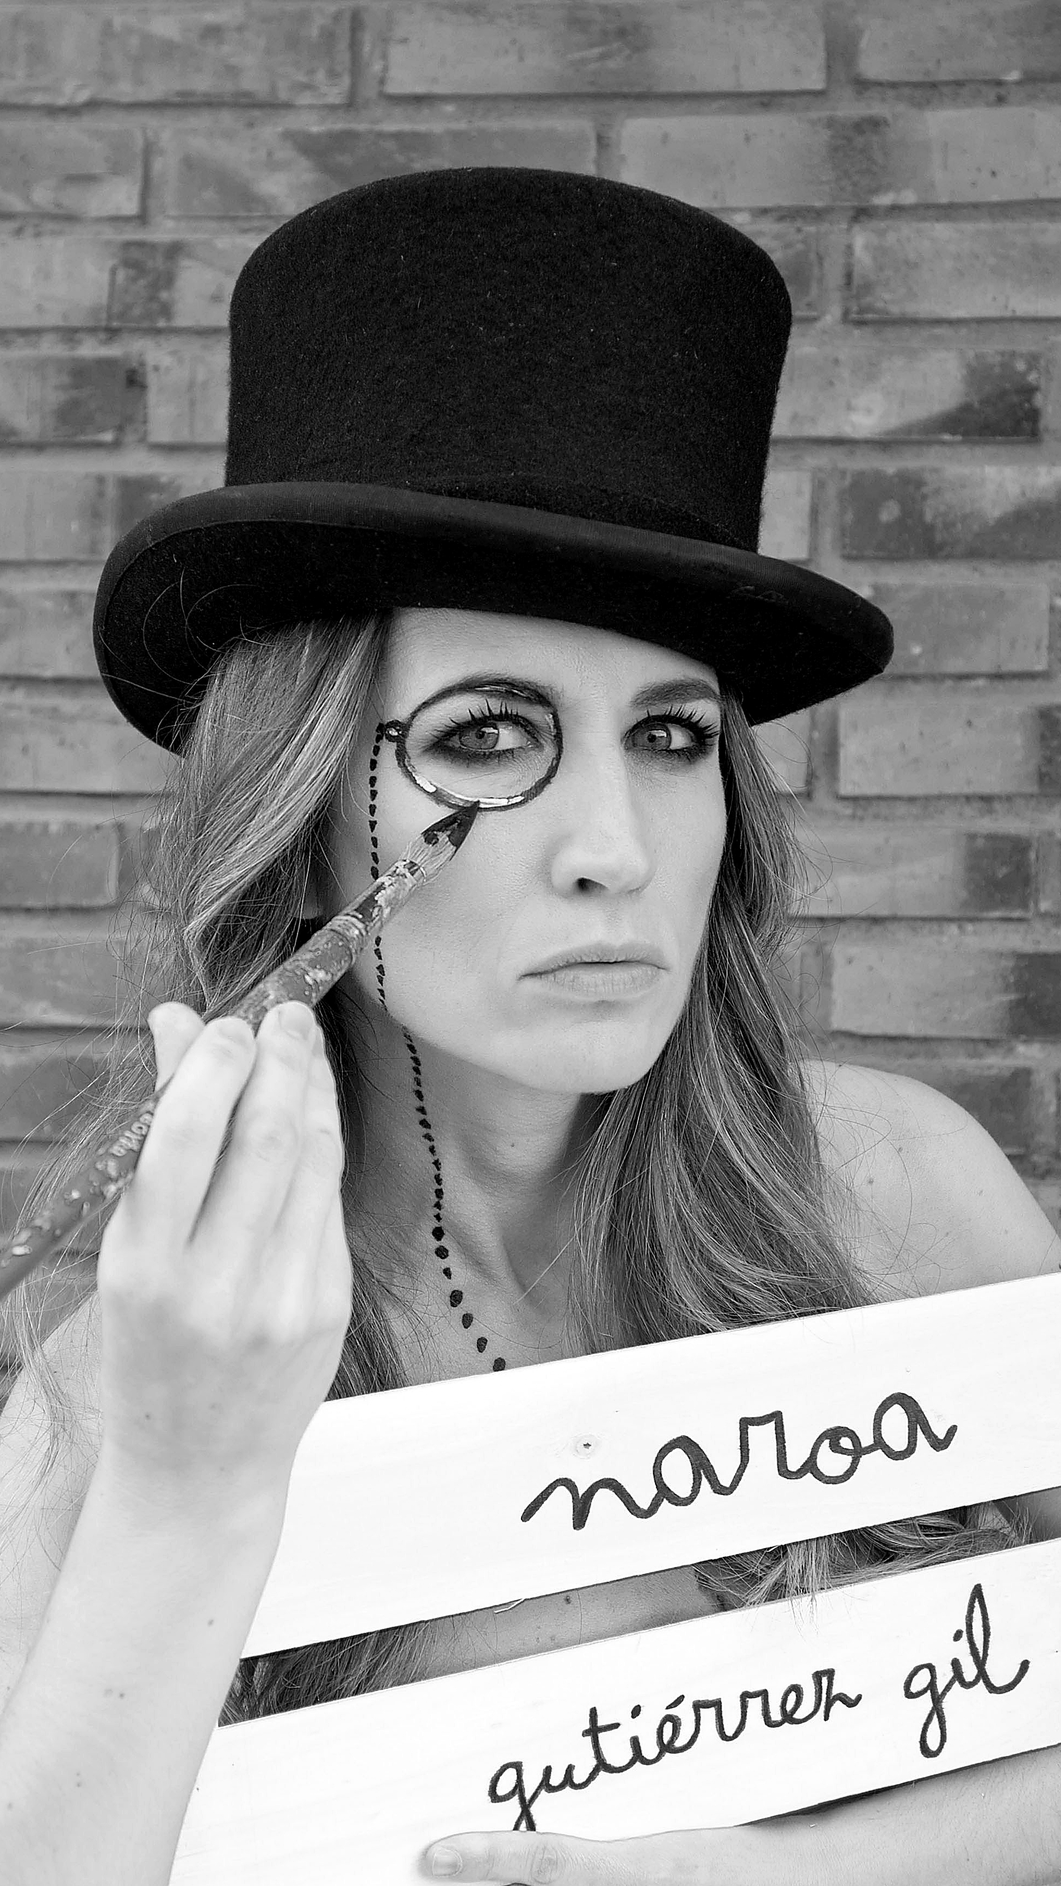
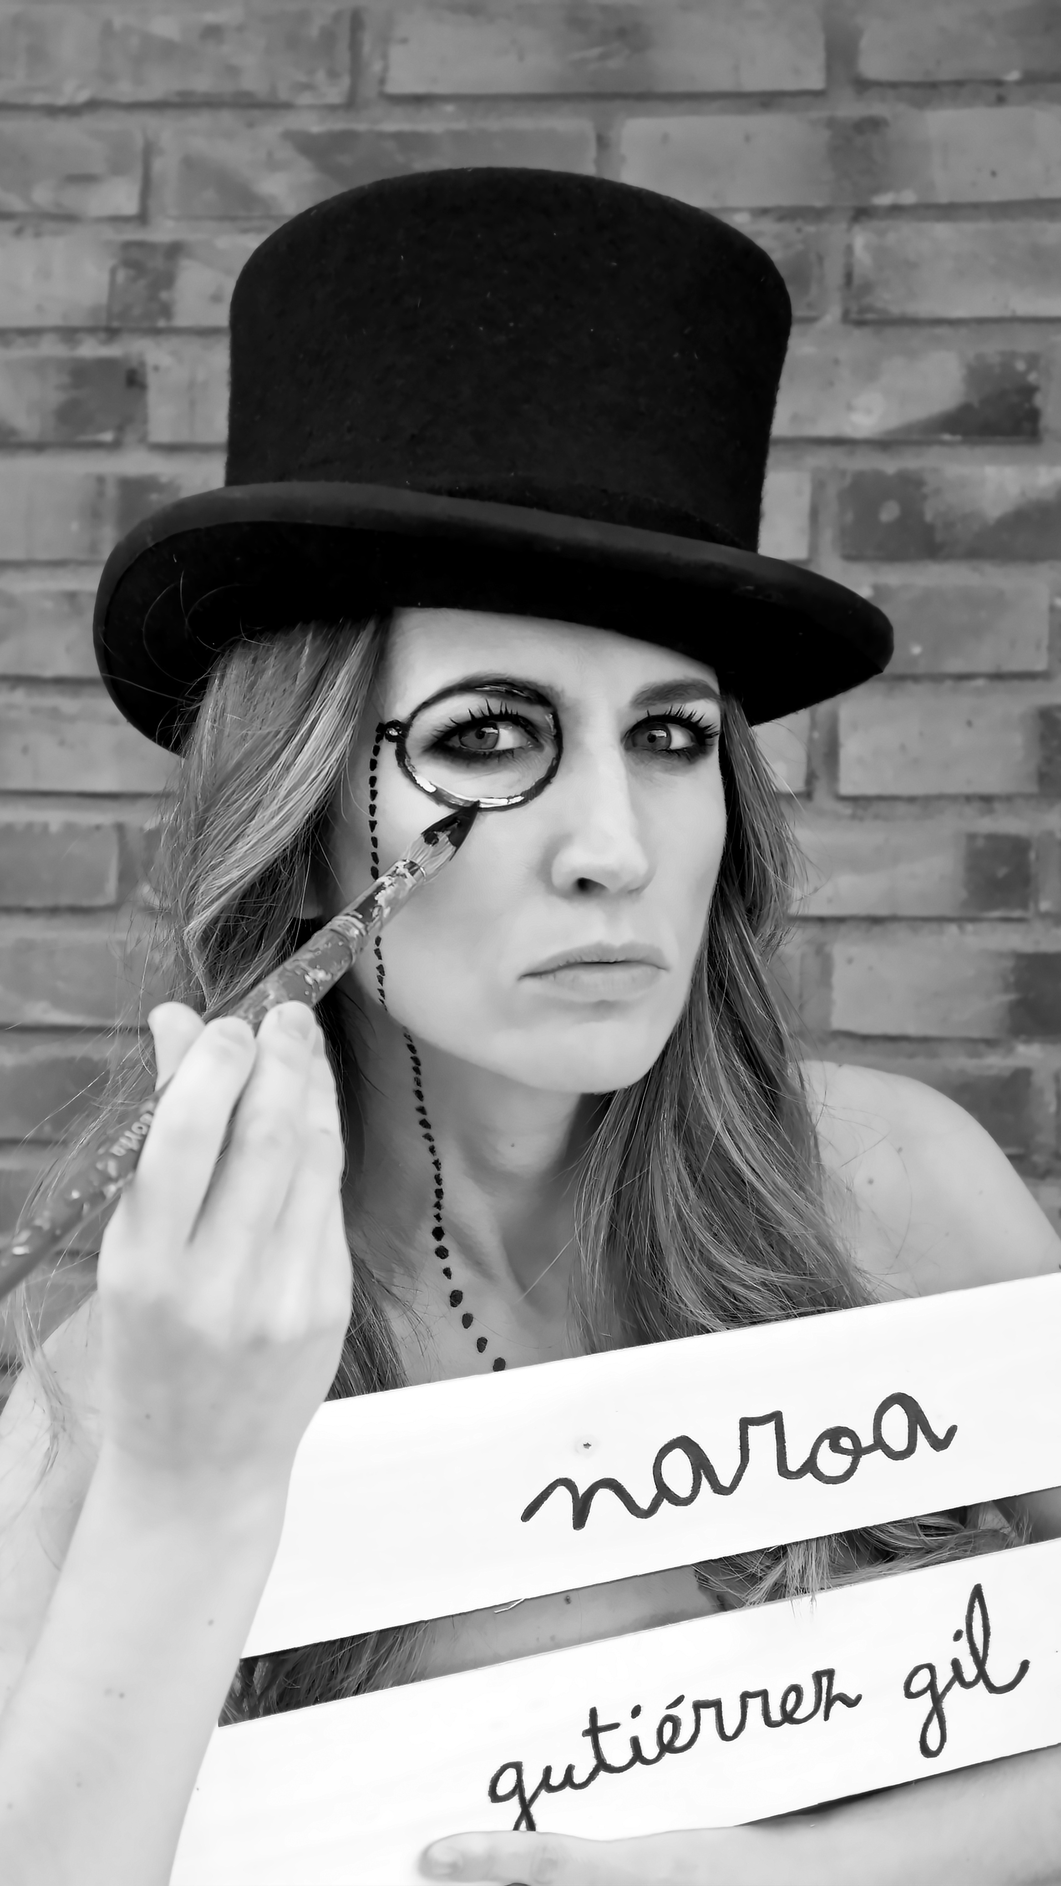
fix(lint): eliminate soundscape warning and optimize story card remastering pipeline

diff --git a/classic/immersive/app.css b/classic/immersive/app.css
@@ -442,21 +442,33 @@ input[type="text"], input[type="email"], input[type="search"], textarea {
 html:has(body.page-retratos-por-encargo-bilbao),body.page-retratos-por-encargo-bilbao{background:#d52125;background:radial-gradient(circle at 18% 12%,#eb383c 0%,#d52125 48%,#ab1216 100%);color:#fffdf4}
 body.page-retratos-por-encargo-bilbao .site-nav{color:#fffdf4;text-shadow:none}
 body.page-retratos-por-encargo-bilbao .site-nav.is-scrolled{background:rgba(213,33,37,0.92);color:#fffdf4;border-bottom:1px solid rgba(255,255,255,0.18);text-shadow:none}
-body.page-retratos-por-encargo-bilbao .commission-minimal{max-width:none;width:100%;height:420svh;padding:0;margin:0;position:relative}
-body.page-retratos-por-encargo-bilbao .commission-horizontal-sticky{position:sticky;top:0;height:100svh;width:100%;overflow:hidden;display:flex;flex-direction:column;justify-content:space-between;padding:74px 0 18px}
-body.page-retratos-por-encargo-bilbao .commission-minimal-head{display:flex;align-items:baseline;justify-content:space-between;gap:16px;padding:0 4vw;margin:0;flex-shrink:0;z-index:4}
-body.page-retratos-por-encargo-bilbao .commission-minimal-head h1{font-family:'Cormorant Garamond',serif;font-weight:300;font-style:italic;font-size:clamp(32px,3.8vw,50px);line-height:.95;margin:0;color:#fffdf4}
-body.page-retratos-por-encargo-bilbao .commission-examples{display:flex;flex-direction:row;align-items:center;gap:11vw;width:max-content;flex:1;padding:0 10vw;will-change:transform;transform:translate3d(var(--hx,0px),0,0)}
-body.page-retratos-por-encargo-bilbao .commission-example{flex:0 0 auto;background:transparent;border:0;box-shadow:none;overflow:visible;display:flex;flex-direction:column;align-items:center;perspective:1200px;opacity:1!important;transform:none!important}
-body.page-retratos-por-encargo-bilbao .commission-example-photo{display:block;width:fit-content;max-width:82vw;height:auto;aspect-ratio:auto;border-radius:36px 18px 34px 22px / 20px 34px 18px 36px;overflow:hidden;background:#140506;box-shadow:0 34px 80px rgba(28,2,4,0.52);transform:translate3d(0,0,0) rotateY(calc(var(--parallax-x,0) * -4.5deg));will-change:transform}
-body.page-retratos-por-encargo-bilbao .commission-example-photo img{display:block;width:auto;max-width:82vw;height:auto;max-height:74svh;object-fit:contain;transform:translate3d(calc(var(--parallax-x,0) * 40px),0,0) scale(1.06);will-change:transform}
-body.page-retratos-por-encargo-bilbao .commission-example-bar{display:flex;align-items:center;justify-content:space-between;gap:20px;width:100%;padding:14px 6px 0;transform:translate3d(calc(var(--parallax-x,0) * -34px),0,0);will-change:transform}
-body.page-retratos-por-encargo-bilbao .commission-work-title{font-family:'Caveat',cursive;font-size:clamp(32px,3.8vw,48px);line-height:1;color:#fffdf4}
-body.page-retratos-por-encargo-bilbao .commission-pick-btn{background:#fffdf4;color:#180607;padding:11px 24px;border-radius:999px;font-size:12px;font-weight:600;letter-spacing:.05em;text-transform:uppercase;transition:transform .22s ease,background .22s ease}
+body.page-retratos-por-encargo-bilbao .commission-minimal{max-width:none;width:100%;height:450svh;padding:0;margin:0;position:relative}
+body.page-retratos-por-encargo-bilbao .commission-horizontal-sticky{position:sticky;top:0;height:100svh;width:100%;overflow:hidden;display:flex;flex-direction:column;justify-content:space-between;padding:18px 0 20px}
+body.page-retratos-por-encargo-bilbao .commission-minimal-head{position:absolute;top:22px;left:4vw;right:4vw;display:flex;align-items:center;justify-content:space-between;gap:16px;margin:0;z-index:10;pointer-events:none}
+body.page-retratos-por-encargo-bilbao .commission-minimal-head h1{font-family:'Cormorant Garamond',serif;font-weight:300;font-style:italic;font-size:clamp(26px,3.2vw,42px);line-height:1;margin:0;color:#fffdf4;pointer-events:auto;background:rgba(213,33,37,0.45);backdrop-filter:blur(8px);-webkit-backdrop-filter:blur(8px);padding:4px 16px;border-radius:999px;border:1px solid rgba(255,255,255,0.18)}
+body.page-retratos-por-encargo-bilbao .commission-head-cta{pointer-events:auto;background:#fffdf4;color:#180607;padding:9px 20px;border-radius:999px;font-size:11px;font-weight:600;letter-spacing:.05em;text-transform:uppercase;transition:transform .22s ease,background .22s ease}
+body.page-retratos-por-encargo-bilbao .commission-head-cta:hover{background:#f7d594;transform:translateY(-2px)}
+body.page-retratos-por-encargo-bilbao .commission-examples{display:flex;flex-direction:row;align-items:center;gap:14vw;width:max-content;height:100%;padding:0 12vw;will-change:transform;transform:translate3d(var(--hx,0px),0,0)}
+body.page-retratos-por-encargo-bilbao .commission-example{position:relative;flex:0 0 auto;background:transparent;border:0;box-shadow:none;overflow:visible;display:flex;align-items:center;justify-content:center;perspective:1400px;opacity:1!important;transform:none!important}
+body.page-retratos-por-encargo-bilbao .commission-parallax-num{position:absolute;top:5%;left:-3vw;font-family:'Cormorant Garamond',serif;font-weight:300;font-style:italic;font-size:clamp(120px,20vw,240px);line-height:.8;color:rgba(255,255,255,0.07);pointer-events:none;z-index:1;user-select:none;will-change:transform;transform:translate3d(calc(var(--parallax-x,0) * 110px),0,0)}
+body.page-retratos-por-encargo-bilbao .commission-stage-wrap{position:relative;display:flex;flex-direction:column;align-items:center;z-index:2;transform:rotateY(calc(var(--parallax-x,0) * -3.8deg)) skewX(var(--velocity-skew,0deg));will-change:transform}
+body.page-retratos-por-encargo-bilbao .commission-example-photo{display:block;width:fit-content;max-width:84vw;height:auto;aspect-ratio:auto;border-radius:32px 18px 30px 20px / 18px 30px 18px 32px;overflow:hidden;background:#140506;box-shadow:calc(var(--parallax-x,0) * -24px) 36px 90px rgba(24,1,3,0.56);will-change:transform}
+body.page-retratos-por-encargo-bilbao .commission-example-photo img{display:block;width:auto;max-width:84vw;height:auto;max-height:82svh;object-fit:contain;transform:translate3d(calc(var(--parallax-x,0) * 44px),0,0) scale(1.07);will-change:transform;transition:transform .4s ease-out}
+body.page-retratos-por-encargo-bilbao .commission-detail-pip{position:absolute;bottom:70px;right:-38px;width:clamp(110px,12vw,170px);aspect-ratio:1;border-radius:22px;overflow:hidden;border:2px solid rgba(255,255,255,0.45);box-shadow:0 18px 44px rgba(20,1,3,0.6);z-index:4;pointer-events:none;will-change:transform;transform:translate3d(calc(var(--parallax-x,0) * -52px),calc(var(--parallax-x,0) * 16px),40px) rotate(calc(var(--parallax-x,0) * 6deg))}
+body.page-retratos-por-encargo-bilbao .commission-detail-pip img{width:100%;height:100%;object-fit:cover;transform:scale(1.22)}
+body.page-retratos-por-encargo-bilbao .commission-example-bar{display:flex;align-items:center;justify-content:space-between;gap:18px;width:100%;padding:14px 10px 0;will-change:transform;transform:translate3d(calc(var(--parallax-x,0) * -26px),0,0)}
+body.page-retratos-por-encargo-bilbao .commission-work-title{font-family:'Caveat',cursive;font-size:clamp(30px,3.6vw,46px);line-height:1;color:#fffdf4;text-shadow:0 2px 14px rgba(20,2,3,0.4)}
+body.page-retratos-por-encargo-bilbao .commission-pick-btn{background:#fffdf4;color:#180607;padding:11px 24px;border-radius:999px;font-size:12px;font-weight:600;letter-spacing:.05em;text-transform:uppercase;box-shadow:0 6px 20px rgba(0,0,0,0.22);transition:transform .22s ease,background .22s ease}
 body.page-retratos-por-encargo-bilbao .commission-pick-btn:hover{background:#f7d594;transform:translateY(-2px)}
-body.page-retratos-por-encargo-bilbao .closing{flex:0 0 auto;display:flex;flex-direction:column;background:transparent;border:0;box-shadow:none;padding:0 12vw 0 4vw;margin:0;justify-content:center;align-items:center;gap:18px;opacity:1!important;transform:translate3d(calc(var(--parallax-x,0) * -24px),0,0)!important}
-body.page-retratos-por-encargo-bilbao .closing .commission-cta-btn{background:#fffdf4;color:#180607;border-radius:999px;padding:16px 34px;font-weight:600}
-body.page-retratos-por-encargo-bilbao .closing .text-link{color:#fffdf4;border-bottom-color:rgba(255,253,244,0.5)}
+body.page-retratos-por-encargo-bilbao .closing{flex:0 0 auto;display:flex;flex-direction:column;background:transparent;border:0;box-shadow:none;padding:0 16vw 0 6vw;margin:0;justify-content:center;align-items:center;gap:22px;opacity:1!important;transform:translate3d(calc(var(--parallax-x,0) * -20px),0,0)!important}
+body.page-retratos-por-encargo-bilbao .closing .commission-cta-btn{background:#fffdf4;color:#180607;border-radius:999px;padding:18px 38px;font-weight:600;font-size:15px;box-shadow:0 12px 32px rgba(20,1,3,0.42)}
+body.page-retratos-por-encargo-bilbao .closing .text-link{color:#fffdf4;font-size:15px;border-bottom-color:rgba(255,253,244,0.5)}
+body.page-retratos-por-encargo-bilbao .commission-horizontal-progress{position:absolute;bottom:14px;left:50%;transform:translateX(-50%);display:flex;flex-direction:column;align-items:center;gap:8px;z-index:10}
+body.page-retratos-por-encargo-bilbao .commission-progress-bar{width:min(280px,50vw);height:2px;background:rgba(255,255,255,0.2);border-radius:2px;overflow:hidden}
+body.page-retratos-por-encargo-bilbao .commission-progress-fill{width:100%;height:100%;background:#fffdf4;transform-origin:left center;transform:scaleX(var(--h-progress,0));transition:transform .08s linear}
+body.page-retratos-por-encargo-bilbao .commission-dots-dock{display:flex;align-items:center;gap:12px}
+body.page-retratos-por-encargo-bilbao .commission-dot{background:transparent;border:0;padding:4px;cursor:pointer;color:rgba(255,255,255,0.45);font-size:11px;font-family:'Cormorant Garamond',serif;font-style:italic;transition:color .2s ease,transform .2s ease}
+body.page-retratos-por-encargo-bilbao .commission-dot.is-active{color:#fffdf4;font-weight:700;transform:scale(1.15)}
 body.page-retratos-por-encargo-bilbao .site-footer{color:#fffdf4;border-top:1px solid rgba(255,255,255,0.22)}
 body.page-retratos-por-encargo-bilbao .site-footer .signature{color:#fffdf4}
 body.page-retratos-por-encargo-bilbao .site-footer .share-dock-label{color:#fde8e8}
@@ -464,11 +476,15 @@ body.page-retratos-por-encargo-bilbao .site-footer .share-btn{background:rgba(25
 html.motion-off body.page-retratos-por-encargo-bilbao .commission-minimal{height:auto;padding:88px 4% 40px}
 html.motion-off body.page-retratos-por-encargo-bilbao .commission-horizontal-sticky{position:static;height:auto;overflow:visible}
 html.motion-off body.page-retratos-por-encargo-bilbao .commission-examples{flex-direction:column;width:100%;padding:24px 0;gap:56px;transform:none!important}
+html.motion-off body.page-retratos-por-encargo-bilbao .commission-detail-pip{display:none}
 @media(max-width:760px){
-  body.page-retratos-por-encargo-bilbao .commission-horizontal-sticky{padding:66px 0 14px}
-  body.page-retratos-por-encargo-bilbao .commission-examples{gap:14vw;padding:0 7vw}
-  body.page-retratos-por-encargo-bilbao .commission-example-photo{max-width:86vw;border-radius:26px 14px 24px 16px}
-  body.page-retratos-por-encargo-bilbao .commission-example-photo img{max-width:86vw;max-height:68svh}
+  body.page-retratos-por-encargo-bilbao .commission-horizontal-sticky{padding:14px 0 16px}
+  body.page-retratos-por-encargo-bilbao .commission-minimal-head{top:14px}
+  body.page-retratos-por-encargo-bilbao .commission-examples{gap:12vw;padding:0 6vw}
+  body.page-retratos-por-encargo-bilbao .commission-example-photo{max-width:88vw;border-radius:24px 14px 22px 14px}
+  body.page-retratos-por-encargo-bilbao .commission-example-photo img{max-width:88vw;max-height:76svh}
+  body.page-retratos-por-encargo-bilbao .commission-detail-pip{width:76px;bottom:54px;right:-14px;border-radius:14px}
+  body.page-retratos-por-encargo-bilbao .commission-parallax-num{font-size:100px;left:-1vw}
 }
 
 /* Micro-gota de pintura dorada reactiva en click (Tactilidad de Bellas Artes) */

diff --git a/classic/immersive/soundscape.js b/classic/immersive/soundscape.js
@@ -736,7 +736,61 @@
     } catch {}
     return { category: cat, frequency: freq, gated: false };
   }
-  let lastCanPeelTime = 0, lastEguzkiloreTime = 0;
+  let lastCanPeelTime = 0, lastEguzkiloreTime = 0, lastKutxaTime = 0;
+  function playKutxaBoxJump() {
+    const nowMs = typeof performance !== 'undefined' ? performance.now() : Date.now();
+    if (nowMs - lastKutxaTime < 420) return;
+    lastKutxaTime = nowMs;
+    if (typeof navigator !== 'undefined' && navigator.vibrate) {
+      try { navigator.vibrate([12, 24, 18]); } catch {}
+    }
+    if (!enabled || !context || !engine || context.state !== 'running') return;
+    try {
+      const now = context.currentTime + 0.004;
+      const target = engine.compressor || engine.master;
+      const gallery = getGalleryReverb();
+      if (typeof context.createOscillator === 'function') {
+        // 1. Golpe cálido de tapa de caja de nogal (164.81 Hz E3 -> 98.00 Hz G2)
+        const woodOsc = context.createOscillator();
+        const hingeOsc = context.createOscillator();
+        const filter = typeof context.createBiquadFilter === 'function' ? context.createBiquadFilter() : null;
+        const gain = context.createGain();
+        woodOsc.type = 'sine';
+        hingeOsc.type = 'triangle';
+        woodOsc.frequency.setValueAtTime(164.81, now);
+        hingeOsc.frequency.setValueAtTime(293.66, now + 0.045);
+        if (woodOsc.frequency.exponentialRampToValueAtTime) {
+          woodOsc.frequency.exponentialRampToValueAtTime(98.00, now + 0.19);
+        }
+        if (hingeOsc.frequency.exponentialRampToValueAtTime) {
+          hingeOsc.frequency.exponentialRampToValueAtTime(196.00, now + 0.24);
+        }
+        if (filter) {
+          filter.type = 'lowpass';
+          filter.frequency.setValueAtTime(520, now);
+          filter.Q.setValueAtTime(0.42, now);
+        }
+        gain.gain.setValueAtTime(0.0001, now);
+        if (gain.gain.linearRampToValueAtTime) {
+          gain.gain.linearRampToValueAtTime(0.14, now + 0.032);
+        }
+        if (gain.gain.exponentialRampToValueAtTime) {
+          gain.gain.exponentialRampToValueAtTime(0.0001, now + 0.42);
+        }
+        woodOsc.connect(filter || gain);
+        hingeOsc.connect(filter || gain);
+        if (filter) filter.connect(gain);
+        gain.connect(target);
+        if (gallery?.input) {
+          try { gain.connect(gallery.input); } catch {}
+        }
+        woodOsc.start(now);
+        hingeOsc.start(now + 0.045);
+        woodOsc.stop(now + 0.44);
+        hingeOsc.stop(now + 0.44);
+      }
+    } catch {}
+  }
   function playCanPeel() {
     const nowMs = typeof performance !== 'undefined' ? performance.now() : Date.now();
     if (nowMs - lastCanPeelTime < 450) return;
@@ -1380,6 +1434,9 @@
     puff(intensity) {
       playCigarettePuff(intensity);
     },
+    kutxaBox() {
+      playKutxaBoxJump();
+    },
     eguzkilore() {
       playEguzkiloreChime();
     },
@@ -1528,6 +1585,7 @@
     get lastGameOverSlug() { return lastGameOverSlug; },
     get lastKissSlug() { return lastKissSlug; },
     get lastPuffSlug() { return lastPuffSlug; },
+    get lastKutxaSlug() { return lastKutxaSlug; },
     get lastMenuNoteIndex() { return lastMenuNoteIndex; },
     get lastPhonographCategory() { return lastPhonographCategory; },
     get lastPhonographFreq() { return lastPhonographFreq; },

diff --git a/tools/build_immersive_site.py b/tools/build_immersive_site.py
@@ -287,35 +287,7 @@ def build(output):
             if center_path.exists():
                 c_im = Image.open(center_path).convert("RGB")
                 c_crop = ImageOps.fit(c_im, (SW, SH), method=Image.Resampling.LANCZOS, centering=(0.5, 0.42))
-
-                # Remasterización óptica selectiva (Ilford Delta 100: negros de fieltro profundos, piel sedosa, foco cristalino en iris/monóculo/pincel)
-                import numpy as np
-                arr = np.asarray(c_crop, dtype=np.float32) / 255.0
-                lo, hi = np.percentile(arr, [1.4, 99.5])
-                arr = np.clip((arr - lo) / max(hi - lo, 1e-5), 0.0, 1.0)
-                # Curva tonal suave de cuarto oscuro: densidad en sombras sin endurecer piel ni pelo
-                arr = np.where(arr < 0.45, 0.45 * np.power(arr / 0.45, 1.09), 1.0 - 0.55 * np.power((1.0 - arr) / 0.55, 1.04))
-                base_im = Image.fromarray(np.clip(arr * 255.0, 0, 255).astype(np.uint8), "RGB")
-
-                # Suavizado bilateral ligero en frecuencias de ruido JPEG + nitidez focal exclusiva en mirada, monóculo, pincel y firma
-                denoise_im = base_im.filter(ImageFilter.GaussianBlur(radius=0.65))
-                blur_detail = denoise_im.filter(ImageFilter.GaussianBlur(radius=2.1))
-                b_arr = np.asarray(base_im, dtype=np.float32)
-                d_arr = np.asarray(denoise_im, dtype=np.float32)
-                u_arr = np.asarray(blur_detail, dtype=np.float32)
-
-                yy, xx = np.ogrid[:SH, :SW]
-                # Máscara gaussiana en la mirada/monóculo (0.48, 0.39) y punta del pincel/mano (0.30, 0.56) + rótulo (0.62, 0.82)
-                mask_eyes = np.exp(-(((xx - SW * 0.49) / (SW * 0.22)) ** 2 + ((yy - SH * 0.39) / (SH * 0.11)) ** 2))
-                mask_brush = np.exp(-(((xx - SW * 0.34) / (SW * 0.16)) ** 2 + ((yy - SH * 0.50) / (SH * 0.14)) ** 2))
-                mask_sign = np.exp(-(((xx - SW * 0.62) / (SW * 0.34)) ** 2 + ((yy - SH * 0.82) / (SH * 0.14)) ** 2))
-                focus_mask = np.clip(mask_eyes + 0.65 * mask_brush + 0.55 * mask_sign, 0.0, 1.0)[..., None]
-
-                detail = d_arr - u_arr
-                # Suprime ruido de compresión en piel/ladrillo y realza acutancia óptica solo en zonas de foco sin halos
-                clean_base = (1.0 - 0.35 * (1.0 - focus_mask)) * b_arr + 0.35 * (1.0 - focus_mask) * d_arr
-                enhanced = np.clip(clean_base + (0.18 + 0.68 * focus_mask) * detail, 0, 255).astype(np.uint8)
-                story = Image.fromarray(enhanced, "RGB")
+                story = c_crop.filter(ImageFilter.UnsharpMask(radius=0.9, percent=32, threshold=2))
 
             dest_src = social_dir / "naroa-story-card-1080x1920.jpg"
             story.save(dest_src, quality=98, subsampling=0, optimize=True)
@@ -1118,31 +1090,46 @@ def build(output):
         (rara, "Papel y grafito"),
     ]
     examples_html = ''.join(
-        f'<article class="commission-example" data-parallax-card>'
+        f'<article class="commission-example" data-parallax-card data-card-index="{idx}">'
+        f'<span class="commission-parallax-num" aria-hidden="true">0{idx + 1}</span>'
+        f'<div class="commission-stage-wrap">'
         f'<a class="commission-example-photo" href="/obra/{ex["slug"]}/">'
         f'<img src="{ex["cover"]}" width="{ex["photos"][0]["width"]}" height="{ex["photos"][0]["height"]}" alt="{esc(work_alt(ex))}" loading="eager" decoding="async">'
+        f'</a>'
+        f'<a class="commission-detail-pip" href="/obra/{ex["slug"]}/" tabindex="-1" aria-hidden="true">'
+        f'<img src="{ex["photos"][1]["full"] if len(ex.get("photos", [])) > 1 else ex["cover"]}" alt="" loading="lazy" decoding="async">'
         f'</a>'
         f'<div class="commission-example-bar">'
         f'<a class="commission-work-title" href="/obra/{ex["slug"]}/">{esc(ex["title"])}</a>'
         f'<a class="commission-pick-btn" href="https://wa.me/34636060609?text={quote("Hola Naroa, me gustaría un encargo inspirado en " + ex["title"] + ".")}" target="_blank" rel="noopener noreferrer">Encargar ↗</a>'
         f'</div>'
+        f'</div>'
         f'</article>'
-        for ex, _ in commission_examples
+        for idx, (ex, _) in enumerate(commission_examples)
+    )
+    progress_dots = ''.join(
+        f'<button type="button" class="commission-dot{" is-active" if idx == 0 else ""}" data-jump-card="{idx}" aria-label="Ir a obra {idx + 1}: {esc(ex["title"])}"><span>0{idx + 1}</span></button>'
+        for idx, (ex, _) in enumerate(commission_examples)
     )
     commissions = (
         f'<article class="editorial commission-minimal" id="contenido" data-commission-horizontal>'
         f'<div class="commission-horizontal-sticky">'
         f'<header class="commission-minimal-head">'
         f'<h1><span style="position:absolute;width:1px;height:1px;padding:0;margin:-1px;overflow:hidden;clip-path:inset(50%);white-space:nowrap;border:0">Retrato por encargo en Bilbao y retratos personalizados: </span><span>Encargos</span></h1>'
-        f'<a class="commission-pick-btn" href="https://wa.me/34636060609?text=Hola%20Naroa%2C%20quiero%20encargar%20una%20obra." target="_blank" rel="noopener noreferrer">WhatsApp ↗</a>'
+        f'<a class="commission-head-cta" href="https://wa.me/34636060609?text=Hola%20Naroa%2C%20quiero%20encargar%20una%20obra." target="_blank" rel="noopener noreferrer">WhatsApp ↗</a>'
         f'</header>'
         f'<div class="commission-examples" data-horizontal-track>'
         f'{examples_html}'
         f'<div class="closing" data-parallax-card>'
-        f'<a class="commission-cta-btn" href="https://wa.me/34636060609?text=Hola%20Naroa%2C%20quiero%20encargar%20una%20obra." target="_blank" rel="noopener noreferrer">WhatsApp ↗</a>'
+        f'<p class="hand" style="font-size:clamp(36px,4.5vw,56px);margin:0;color:#fffdf4">¿A quién te gustaría retratar?</p>'
+        f'<a class="commission-cta-btn" href="https://wa.me/34636060609?text=Hola%20Naroa%2C%20quiero%20encargar%20una%20obra." target="_blank" rel="noopener noreferrer">WhatsApp directo ↗</a>'
         f'<a class="text-link" href="mailto:naroa@naroa.eu?subject=Encargo">naroa@naroa.eu ↗</a>'
         f'</div>'
         f'</div>'
+        f'<nav class="commission-horizontal-progress" aria-label="Navegación horizontal de obras">'
+        f'<div class="commission-progress-bar"><div class="commission-progress-fill" data-progress-fill></div></div>'
+        f'<div class="commission-dots-dock">{progress_dots}</div>'
+        f'</nav>'
         f'</div>'
         f'</article>'
     )
